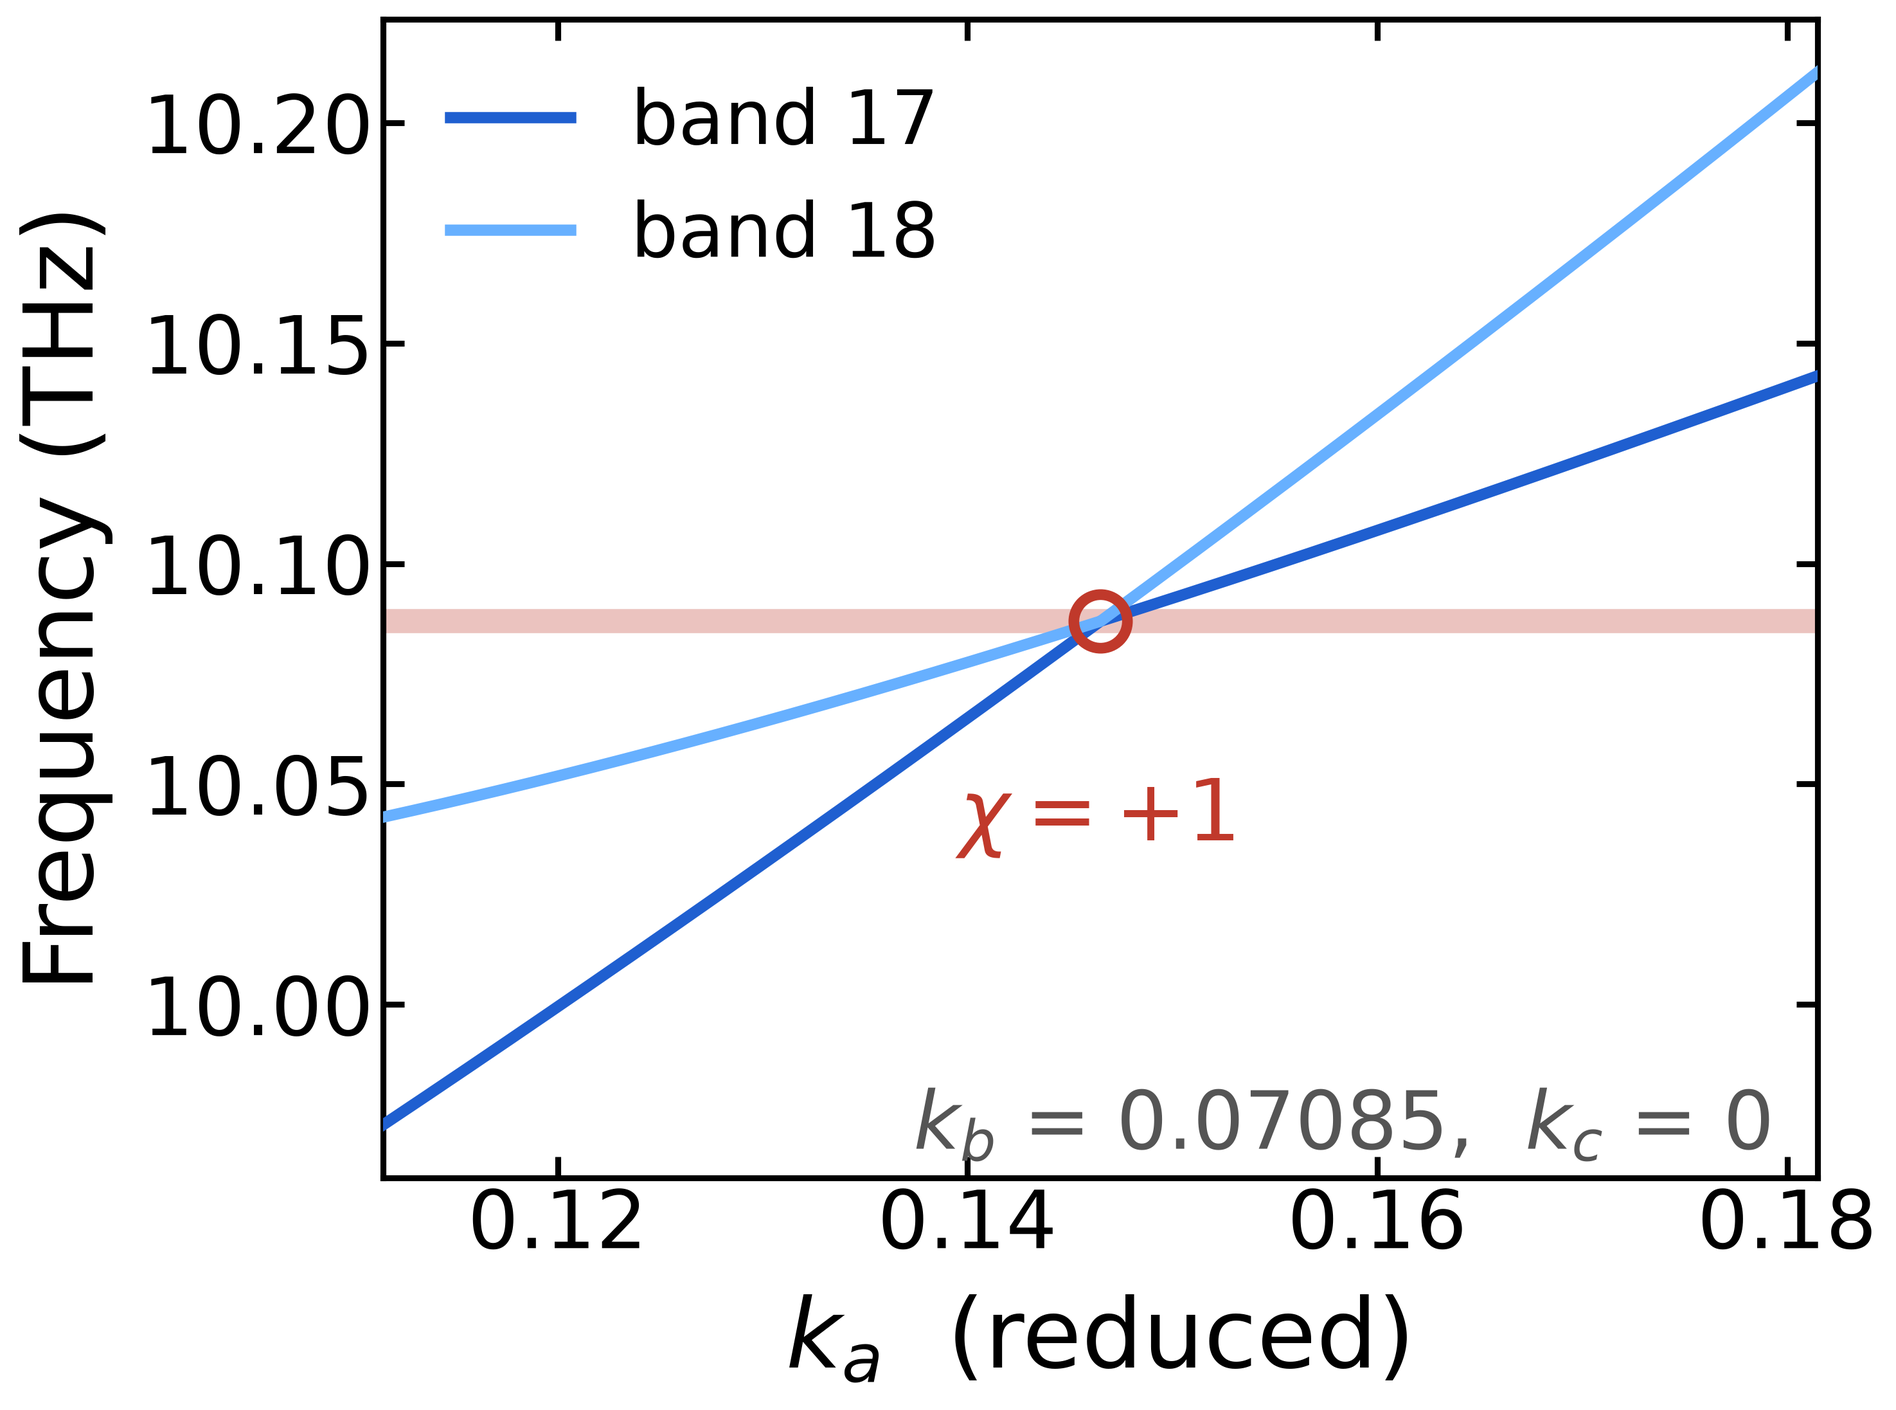
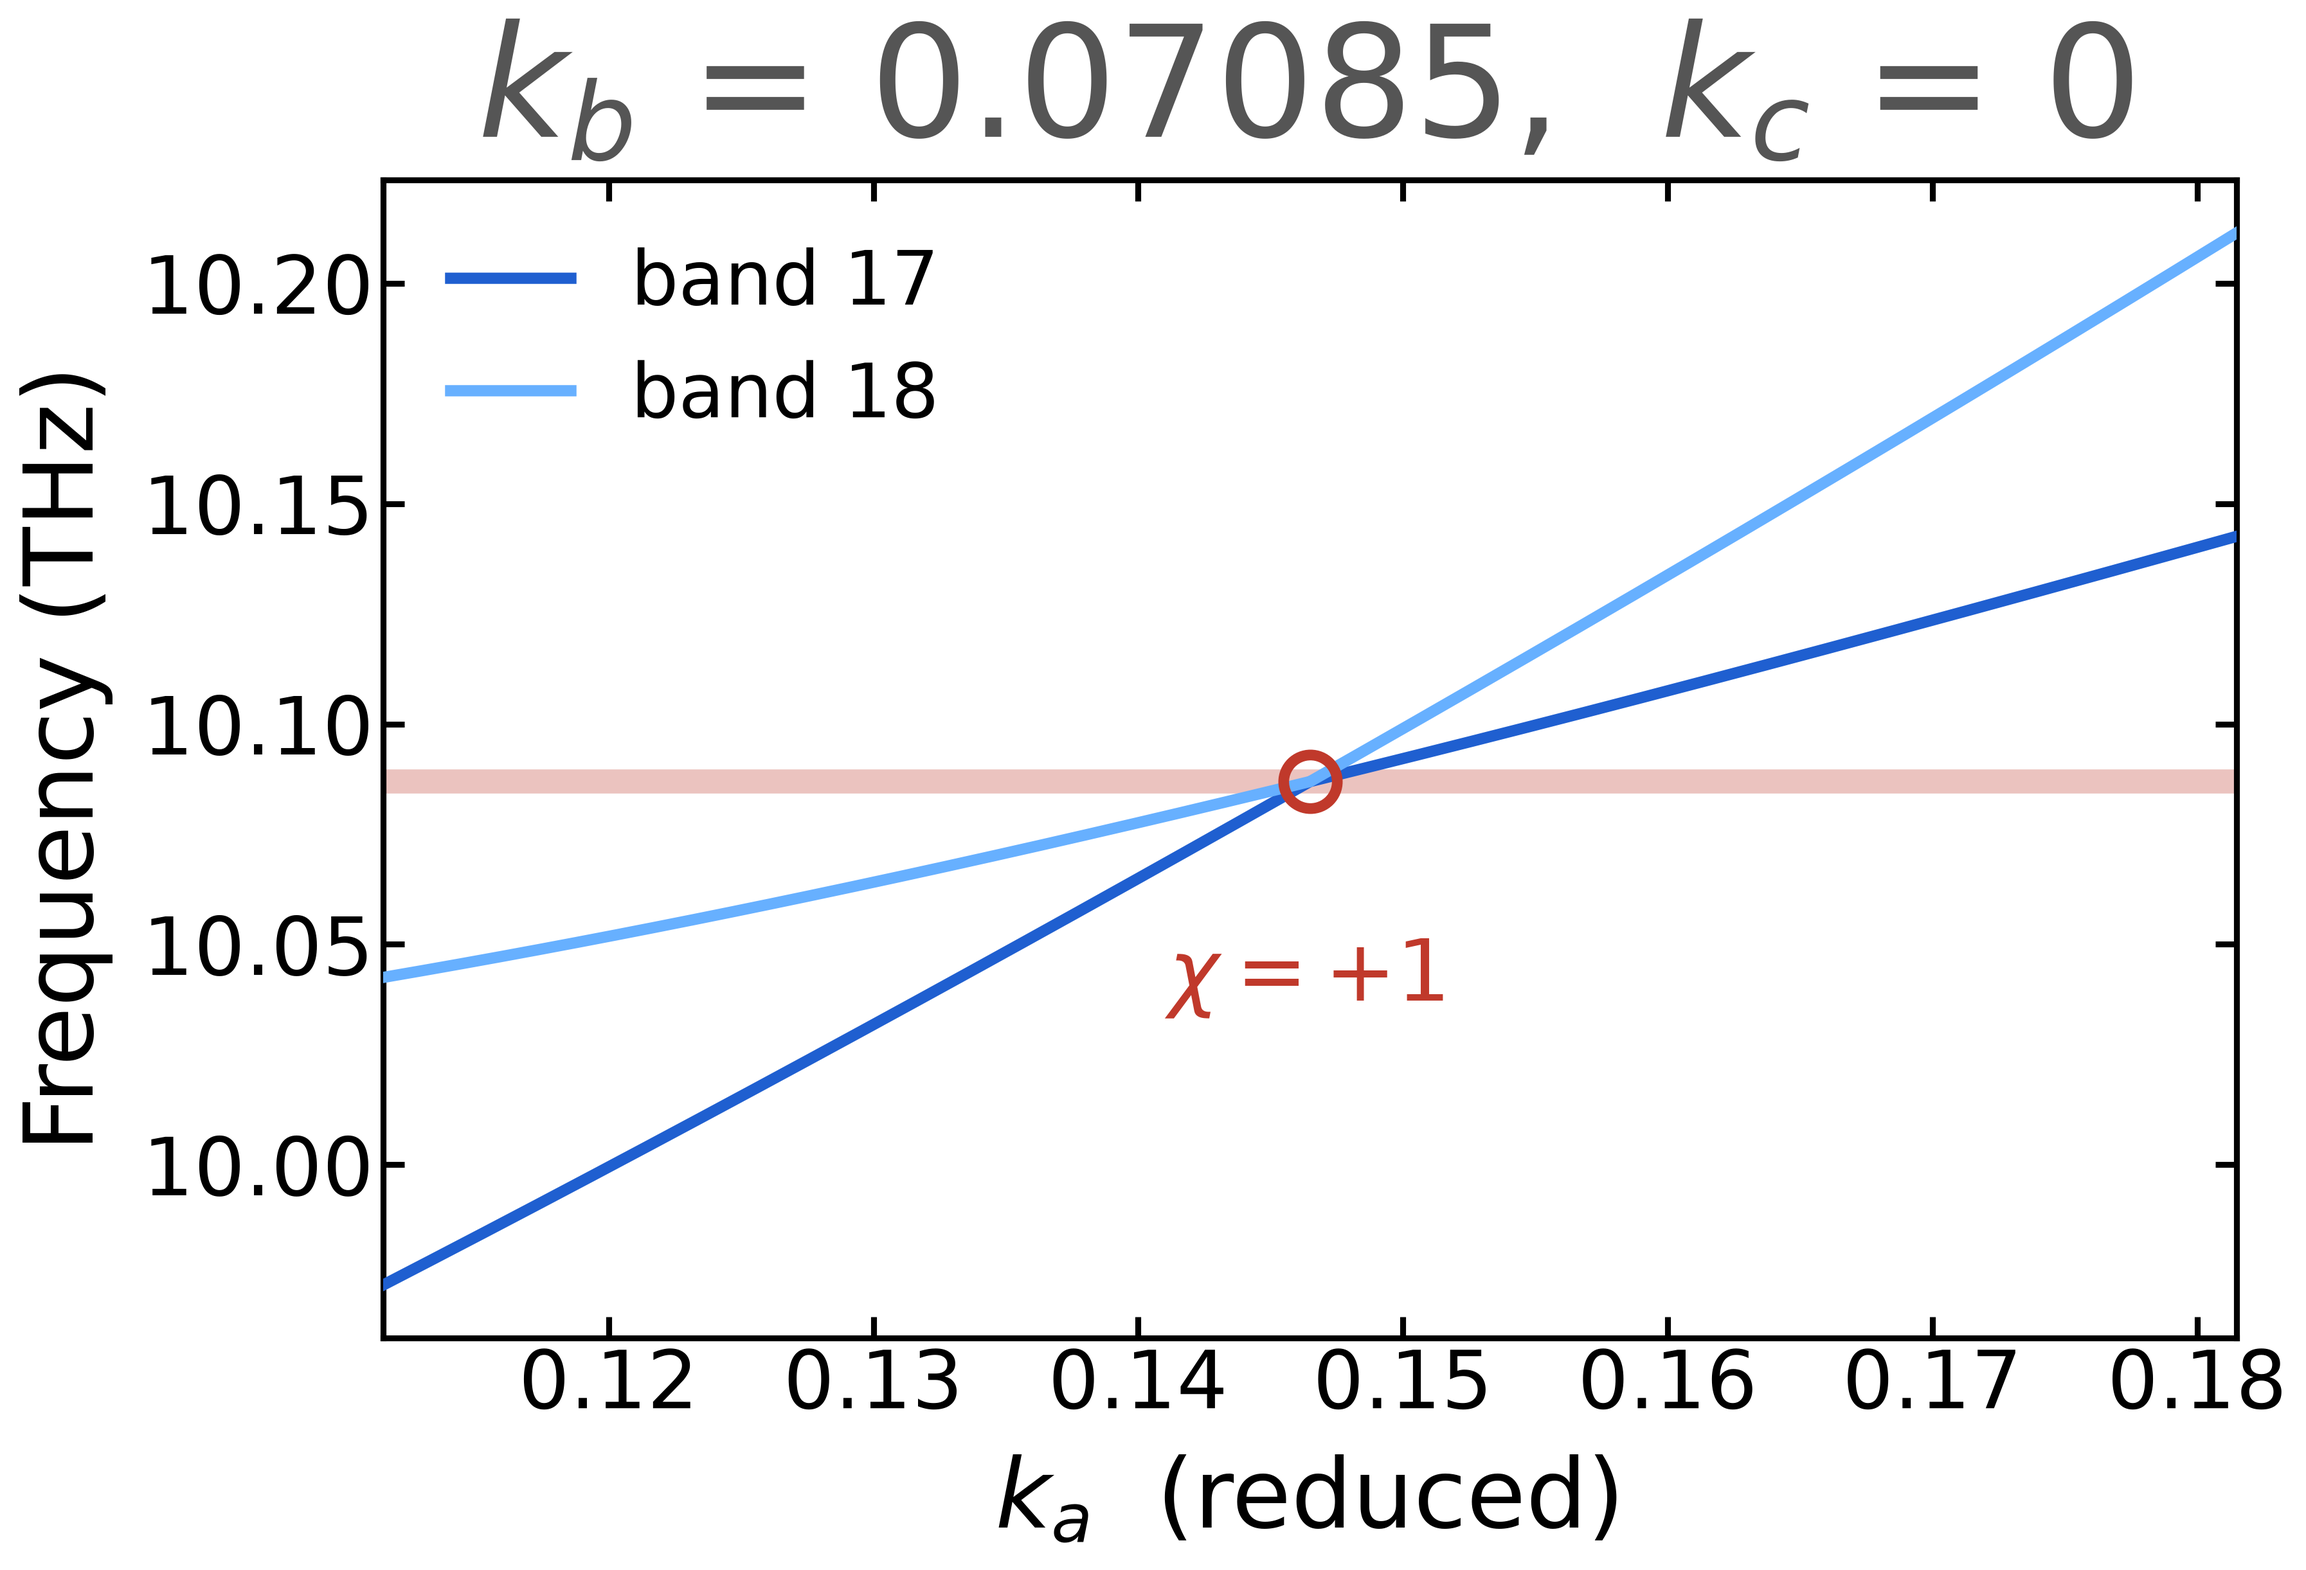
fig2 cut panels: double the grey fixed-parameter line and move it above
30pt -> 58pt. At that size it no longer fits inside the axes -- it collided
with the y ticks and ran past the frame -- so it now sits above the plot in
the title slot, with the figure widened to 12.4in so the line fits. Band 17
and the axis ticks are clear of it either way.

Claude-Session: https://claude.ai/code/session_016KadJUTSV3nBHHj1NDTMTh

diff --git a/scripts/figs/fig2_cut_ppt.py b/scripts/figs/fig2_cut_ppt.py
@@ -47,7 +47,7 @@ for tag, sl, axis, fixed in (
     k = np.linspace(k0 - HALF, k0 + HALF, EE.shape[1])
     i = int(np.argmin(EE[17] - EE[16]))
 
-    fig, ax = plt.subplots(figsize=(9.6, 7.8))
+    fig, ax = plt.subplots(figsize=(12.4, 7.8))
     for b in range(NB):
         if b not in (16, 17):
             ax.plot(k, EE[b], color='#c8c8c8', lw=1.6)
@@ -63,9 +63,8 @@ for tag, sl, axis, fixed in (
     ax.set_ylim(EE[16].min() - 0.012, EE[17].max() + 0.012)
     ax.set_xlabel('$k_%s$  (reduced)' % axis, labelpad=10)
     ax.set_ylabel('Frequency (THz)', labelpad=10)
-    # 밴드 17 이 왼쪽 아래로 내려오므로 고정 파라미터 글씨는 오른쪽으로 비켜 둔다
-    ax.text(0.97, 0.025, fixed, transform=ax.transAxes, ha='right',
-            fontsize=30, color='#555')
+    # 고정 파라미터는 그림 위 제목 자리로 — 크게 키워도 밴드와 안 겹친다
+    ax.set_title(fixed, fontsize=58, color='#555', pad=16)
     ax.legend(loc='upper left', frameon=False, handlelength=1.6)
     out = 'figs/fig2_cut_%s.png' % tag
     fig.savefig(out)
